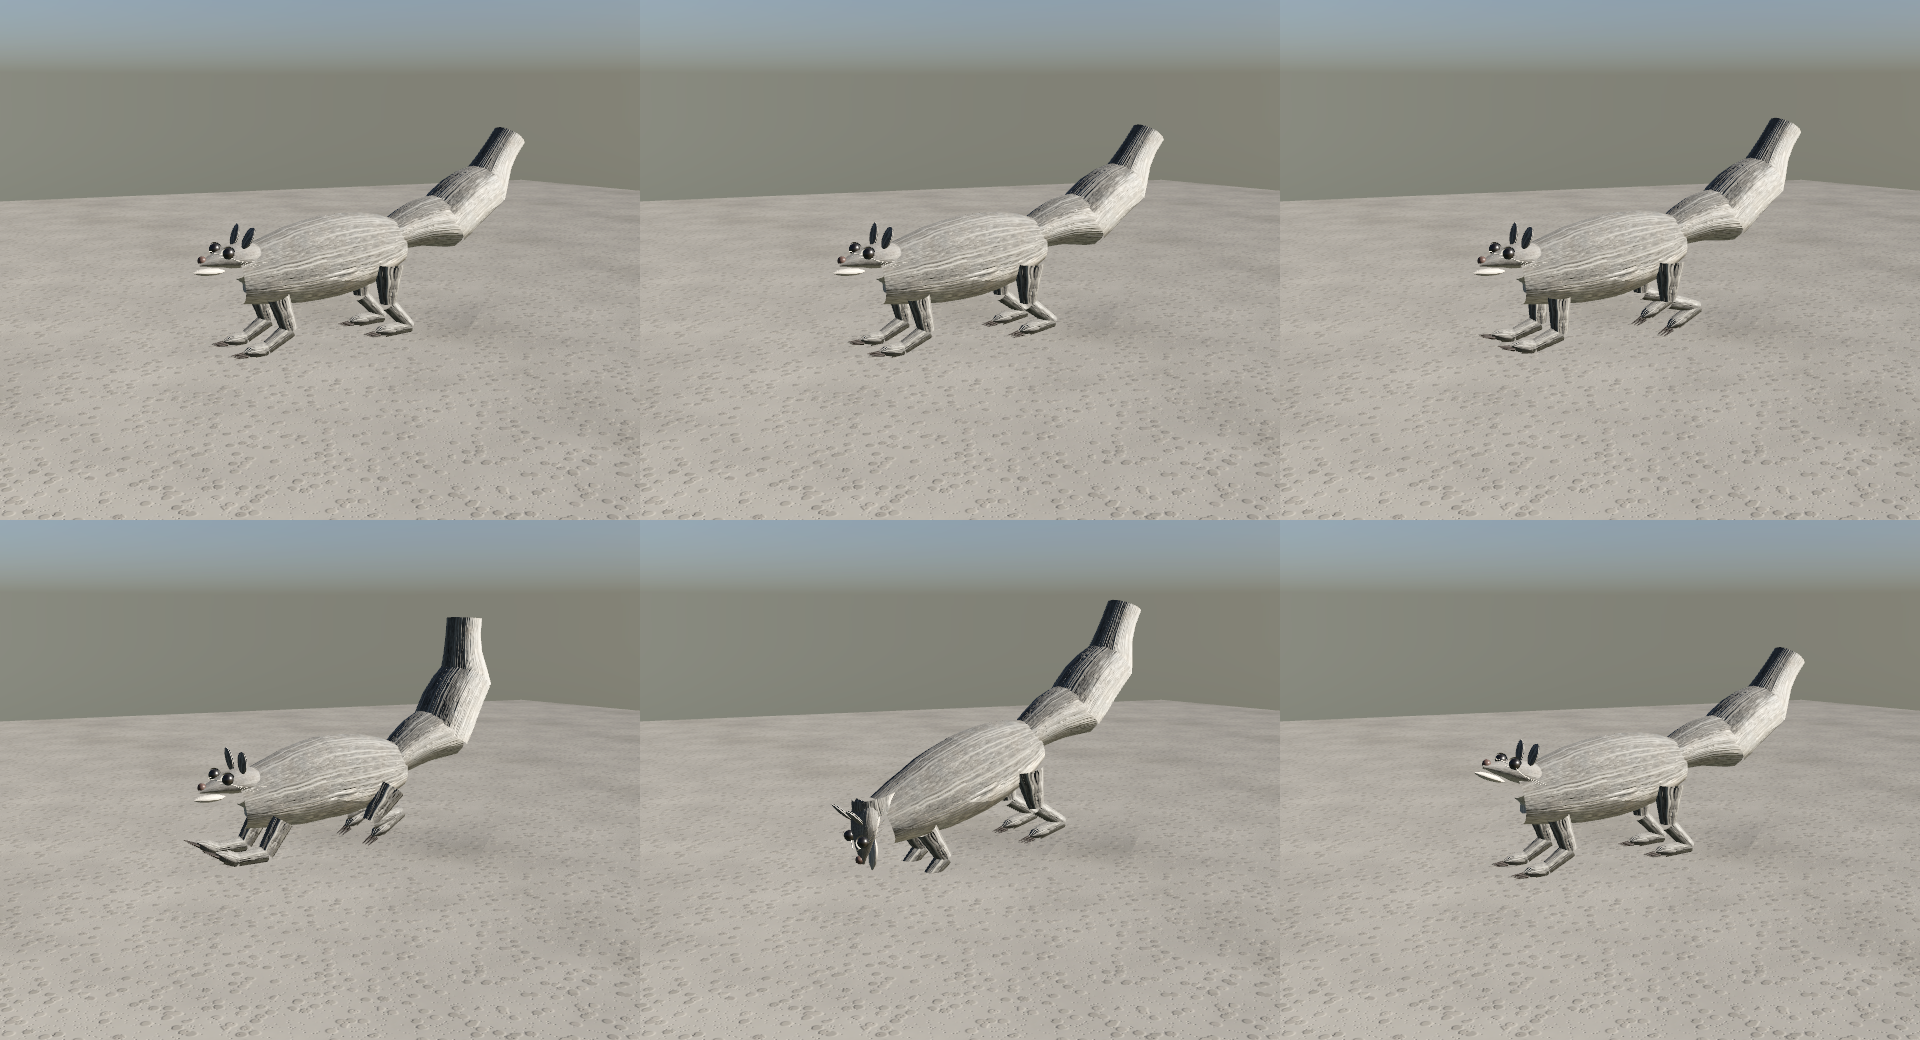
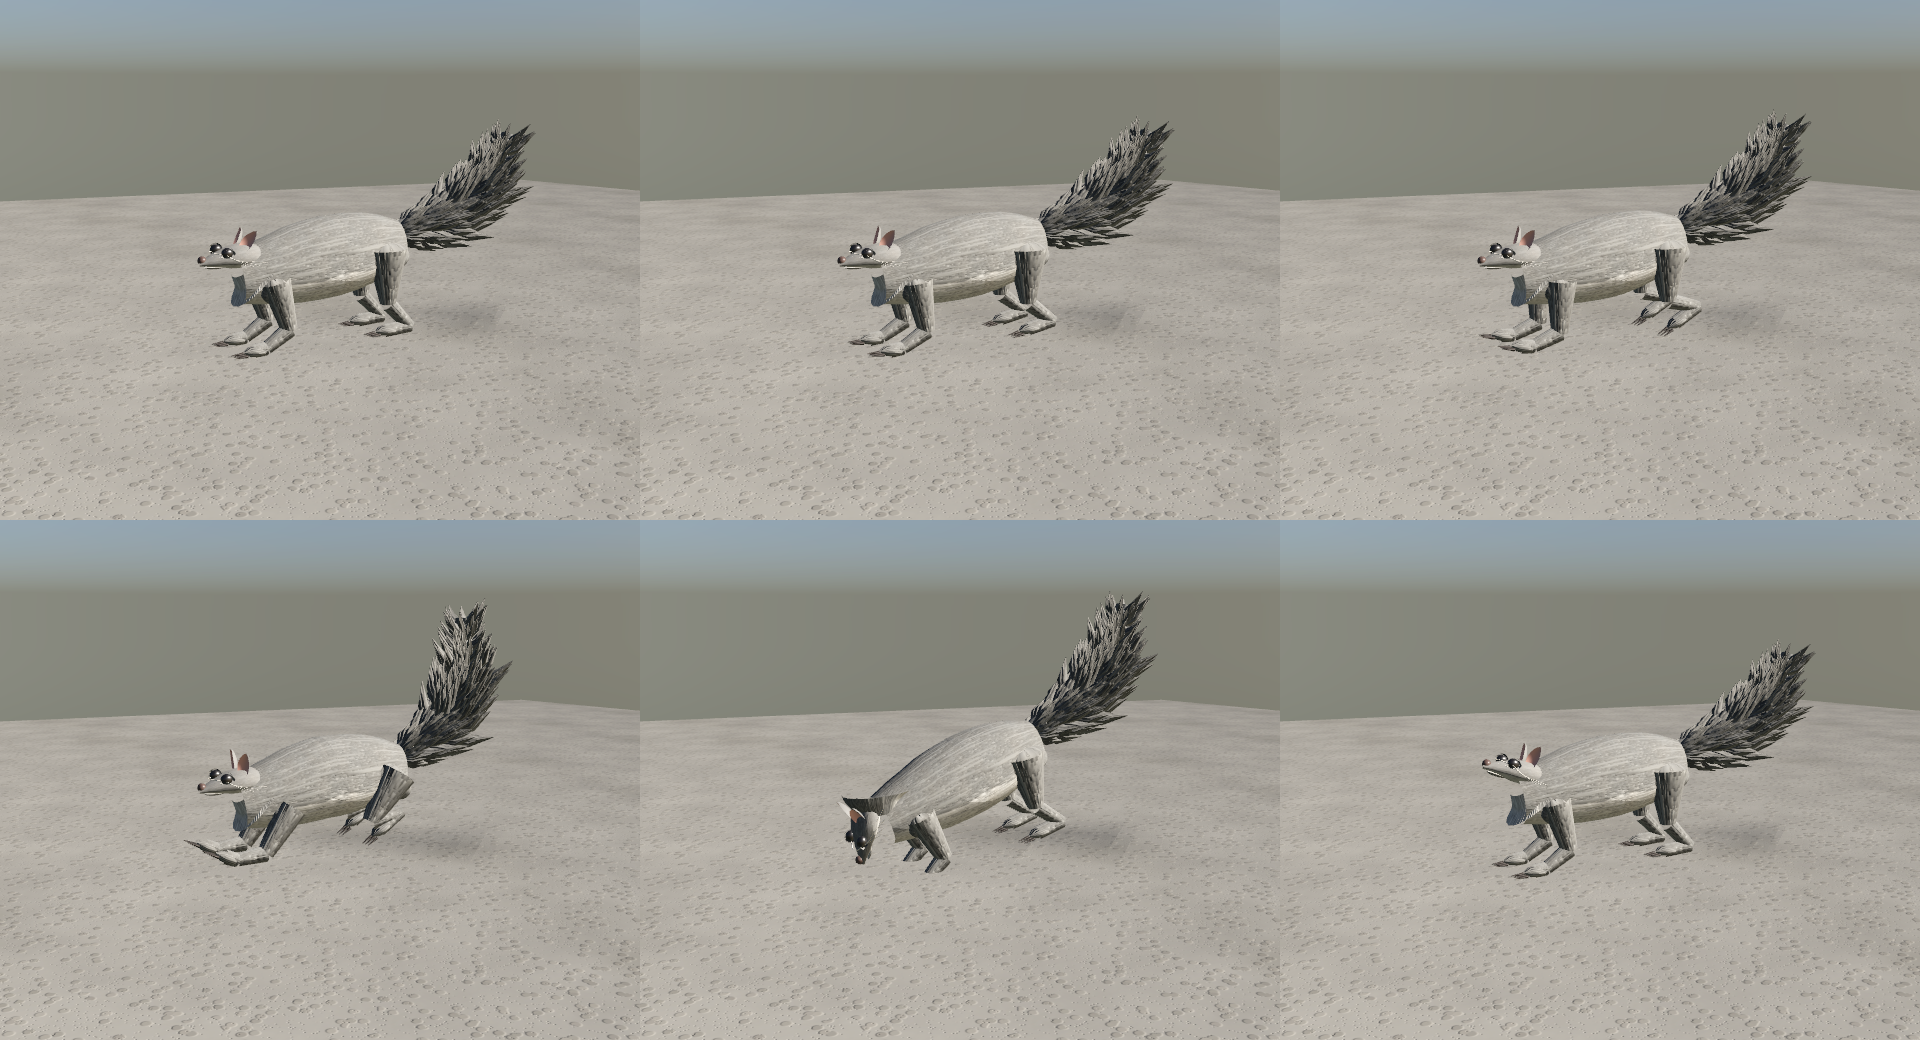
Pets: fur strands, seated eyes, cupped pinna ears, fur-card tails, blended neck

diff --git a/Sources/AnimalCore/Anatomy/GroundRigBuilder.swift b/Sources/AnimalCore/Anatomy/GroundRigBuilder.swift
@@ -111,6 +111,8 @@ public enum GroundRigBuilder {
         }
 
         let plan = QuadrupedPlan.plan(for: p)
+        // Small furred mammals (pets, squirrels): blended neck, seated eyes, cupped ears, fur-card tail.
+        let small = plan == nil && !a.hooves && !a.spines && a.bodyLength < 0.35
         declare(.spine, parent: nil, pivot: f.C, axis: GroundFrame.X)
         declare(.tailYaw, parent: .spine, pivot: f.rump, axis: GroundFrame.Y)
         let tl = a.tailLength
@@ -227,11 +229,11 @@ public enum GroundRigBuilder {
         let limbFur = a.darkLimbs ? f.mat(.head) : fur
         // Neck: sections along the spine of the neck with a shoulder blend at the base, a crest above and
         // a brisket or throat swell below.
-        let nBase = f.neckPivot - f.A * (0.1 * a.bodyLength) - f.U * (0.06 * a.bodyDepth)
+        let nBase = small ? f.C + f.A * (0.36 * a.bodyLength) + f.U * (0.02 * a.bodyDepth) : f.neckPivot - f.A * (0.1 * a.bodyLength) - f.U * (0.06 * a.bodyDepth)
         let neckPath = a.neckLength > 0 ? [nBase, lerp(f.neckPivot, neckEnd, 0.5) + V3(0, 0.02 * a.neckLength, 0), neckEnd] : [nBase, lerp(nBase, neckEnd, 0.5), neckEnd]
         let NN = 13
         let npts = Loft.resample(neckPath, count: NN)
-        let r0 = 0.5 * a.bodyWidth * a.neckThick, r1 = 0.5 * a.headWidth * 0.95
+        let r0 = small ? 0.5 * a.bodyWidth * bp(0.86) : 0.5 * a.bodyWidth * a.neckThick, r1 = 0.5 * a.headWidth * 0.95
         func neckSecs(_ i0: Int, _ i1: Int, grow: Float = 1, mane: Float = 0) -> [LoftSection] {
             (i0...i1).map { i in
                 let t = Float(i) / Float(NN - 1)
@@ -245,14 +247,15 @@ public enum GroundRigBuilder {
                 let crest = 1 + 0.07 * sin(.pi * min(1, t * 1.2))
                 let brisket = 1 + 0.32 * pow(max(0, 1 - t / 0.35), 1.5) + (a.neckLength > 0.2 ? 0.14 * sin(.pi * min(1, max(0, (t - 0.25) / 0.6))) : 0)
                 let bump = sin(.pi * min(1, max(0, (t - 0.04) / 0.9)))
-                var hv = w * a.neckDeep * brisket + mane * bump
-                let hd = w * a.neckDeep * crest
+                let deepK: Float = small ? lerp(a.bodyDepth / a.bodyWidth * 0.95, 1, pow(t, 0.8)) : 1
+                var hv = w * a.neckDeep * brisket * deepK + mane * bump
+                let hd = w * a.neckDeep * crest * deepK
                 let c = npts[i] - u * (0.35 * mane * bump)
                 hv = max(hv, 0.001)
                 return LoftSection(center: c, right: simd_normalize(simd_cross(fw, u)), up: u, halfWidth: w, halfDorsal: hd, halfVentral: hv, exponent: 2.1)
             }
         }
-        let iT = a.throatFrom < 1 ? max(2, min(NN - 3, Int(a.throatFrom * Float(NN - 1)))) : NN - 1
+        let iT = a.throatFrom < 1 && !small ? max(2, min(NN - 3, Int(a.throatFrom * Float(NN - 1)))) : NN - 1
         rig.add(Loft.build(neckSecs(0, iT), segments: 20, vRange: 0.9...1.0, material: limbFur), to: GroundJoint.neckPitch.name)
         if iT < NN - 1 {
             rig.add(Loft.build(neckSecs(iT, NN - 1), segments: 20, vRange: 0.9...1.0, material: f.mat(.throat)), to: GroundJoint.neckPitch.name)
@@ -291,8 +294,10 @@ public enum GroundRigBuilder {
         // Lower jaw.
         let jawK: Float = a.headShape == nil ? 1 : 1.5
         let shaped = a.headShape != nil
-        let jawLoft = Loft.ellipsoid(center: shaped ? gape + V3(0, 0, -0.14 * hl) : gape + V3(0.0, 0.0, -0.18 * hl * jawK), axis: V3(0, 0, -1), up: GroundFrame.Y,
-                                     radii: V3(0.2 * a.headWidth * (shaped ? 0.62 : 1), 0.07 * a.headHeight, (shaped ? 0.2 : 0.26 * jawK) * hl), rings: 6, segments: 10, material: f.mat(p.palette.muzzle != nil ? .muzzle : .head), uv: { u, v in V2(0.5 + 0.1 * cos(u * 2 * .pi), 0.8) })
+        let jawC = small ? V3(0, 0.1 * a.headHeight, 0.1 * hl) : V3(0, 0, 0)
+        let jawS: Float = small ? 0.7 : 1
+        let jawLoft = Loft.ellipsoid(center: jawC + (shaped ? gape + V3(0, 0, -0.14 * hl) : gape + V3(0.0, 0.0, -0.18 * hl * jawK)), axis: V3(0, 0, -1), up: GroundFrame.Y,
+                                     radii: V3(0.2 * a.headWidth * (shaped ? 0.62 : 1), 0.07 * a.headHeight, (shaped ? 0.2 : 0.26 * jawK) * hl) * jawS, rings: 6, segments: 10, material: f.mat(p.palette.muzzle != nil ? .muzzle : .head), uv: { u, v in V2((small ? 0.32 : 0.5) + 0.1 * cos(u * 2 * .pi), 0.8) })
         rig.add(jawLoft, to: GroundJoint.jaw.name)
         // Nose, eyes, lids.
         let nr = a.noseSize * a.headWidth
@@ -300,8 +305,18 @@ public enum GroundRigBuilder {
         rig.add(Prim.cubeSphere(subdivisions: 3, material: f.mat(.nose)) { disc ? V3($0.x * nr, $0.y * nr * 0.8, $0.z * nr * 0.4) : $0 * nr },
                 Xform(translation: noseTip + V3(0, 0, disc ? -0.002 : 0.004)), to: GroundJoint.headPitch.name)
         for s in Side.allCases {
-            let c = eyeAt(s)
-            if plan == nil { rig.add(Prim.cubeSphere(subdivisions: 3, material: f.mat(.eye)) { $0 * a.eyeRadius }, Xform(translation: c), to: GroundJoint.headPitch.name) }
+            var c = eyeAt(s)
+            if small {
+                // Seat the eye in a socket: sunk into the skull, flattened, ringed by a dark lid rim.
+                let R = a.eyeRadius
+                c -= V3(s.sign * R * 0.55, 0, 0)
+                let face = simd_quatf(angle: -s.sign * .pi / 2, axis: GroundFrame.Z)
+                var rim: [V2] = []
+                for k in 0...6 { let al = radians(58 + 40 * Float(k) / 6); rim.append(V2(R * 1.12 * sin(al), R * 1.12 * cos(al) * 0.92)) }
+                rig.add(Prim.lathe(rim, segments: 18, seamTile: 0.02, material: f.mat(.lid)), Xform(translation: c, rotation: face), to: GroundJoint.headPitch.name)
+                rig.add(Prim.cubeSphere(subdivisions: 3, material: f.mat(.eye)) { V3($0.x * R * 0.8, $0.y * R * 0.92, $0.z * R * 1.05) }, Xform(translation: c), to: GroundJoint.headPitch.name)
+            }
+            if plan == nil && !small { rig.add(Prim.cubeSphere(subdivisions: 3, material: f.mat(.eye)) { $0 * a.eyeRadius }, Xform(translation: c), to: GroundJoint.headPitch.name) }
             let face = simd_quatf(angle: -s.sign * .pi / 2, axis: GroundFrame.Z)
             var prof: [V2] = []
             let R = a.eyeRadius * 1.2
@@ -310,7 +325,17 @@ public enum GroundRigBuilder {
                     to: s == .left ? GroundJoint.lidL.name : GroundJoint.lidR.name)
         }
         // Ears: flattened shells, inner skin and outer fur.
-        for s in Side.allCases where plan == nil {
+        for s in Side.allCases where small {
+            let base = earBase(s)
+            let dir = simd_normalize(V3(s.sign * a.earTilt, 1, 0.12))
+            let fwd = V3(s.sign * 0.3, 0.05, -1)
+            let normal = simd_normalize(fwd - dir * simd_dot(fwd, dir))
+            let side = simd_normalize(simd_cross(normal, dir))
+            let part = s == .left ? GroundJoint.earL.name : GroundJoint.earR.name
+            for srf in QuadrupedBody.ear(base: base - dir * 0.004, dir: dir, side: side, normal: normal, len: a.earLength, width: a.earWidth,
+                                         outer: f.mat(.ear), inner: f.mat(.pinna)) { rig.add(srf, to: part) }
+        }
+        for s in Side.allCases where plan == nil && !small {
             let base = earBase(s)
             let dir = simd_normalize(V3(s.sign * (p.species == .easternCottontail ? 0.18 : a.earTilt), 1, p.species == .easternCottontail ? 0.25 : 0.1))
             let len = a.earLength
@@ -354,12 +379,31 @@ public enum GroundRigBuilder {
                 default: return tw * 0.5 * (1 - 0.5 * t)
                 }
             }
+            let fluffy = small && a.tailLength > 0.6 * a.bodyLength
+            let coreK: Float = fluffy ? 0.5 : 1
             let pm = lerp(p0, p1, 0.5) + V3(0, curl * tailSeg * 0.07, 0)
             let seg = Loft.along([p0 - (p1 - p0) * 0.1, pm, p1 + (p1 - p0) * 0.06], up: GroundFrame.Y, count: 5, segments: 14, vRange: t0...t1, exponent: 2, material: tailMaterial()) { t in
-                let r = wTail(lerp(t0, t1, t)); return V3(r, r * (p.species == .easternGraySquirrel ? 0.8 : 1), r * (p.species == .easternGraySquirrel ? 0.8 : 1))
+                let r = wTail(lerp(t0, t1, t)) * coreK; return V3(r, r * (p.species == .easternGraySquirrel ? 0.8 : 1), r * (p.species == .easternGraySquirrel ? 0.8 : 1))
             }
             let partName = [GroundJoint.tail0, .tail1, .tail2][i].name
             rig.add(seg, to: partName)
+            if fluffy {
+                // Volumetric brush: tapered fur cards fanning out from the tail bone, leaning toward the tip.
+                var rng = SplitMix(seed: 31 + UInt64(i))
+                let ax = simd_normalize(p1 - p0)
+                let rt = simd_normalize(simd_cross(ax, GroundFrame.X)), sd = GroundFrame.X
+                for _ in 0..<110 {
+                    let tt = rng.next01()
+                    let w = wTail(lerp(t0, t1, tt))
+                    let ang = rng.next01() * 2 * .pi
+                    let radial = sd * cos(ang) * 1.15 + rt * sin(ang) * 0.85
+                    let b = lerp(p0, p1, tt) + radial * (w * 0.3)
+                    let L = w * (0.8 + 0.5 * rng.next01())
+                    let d = simd_normalize(radial + ax * 0.9)
+                    let pts = [b, b + d * (0.5 * L) + radial * (0.08 * L), b + d * L + ax * (0.2 * L)]
+                    rig.add(Prim.tube(pts, radii: [w * 0.24, w * 0.18, 0.0004], sides: 4, seamTile: 0.02, material: p.species == .easternGraySquirrel ? fur : tailMaterial()), to: partName)
+                }
+            }
         }
         if p.species == .easternCottontail {
             // Pom-pom: replace segmented tail look with a ball.
@@ -371,7 +415,7 @@ public enum GroundRigBuilder {
         for l in GroundJoint.Leg.allCases where plan == nil {
             let c = chains[l]!
             let r = a.legRadius
-            let thighR = (l.isFore ? r * 1.4 : r * 2.0) * a.thighScale
+            let thighR = (l.isFore ? r * 1.4 : r * 2.0) * a.thighScale * (small ? 1.35 : 1)
             let kneeR: Float = a.digitigrade ? r * (l.isFore ? 1.3 : max(1.1, a.thighScale)) : r * 1.05
             let shankEnd: Float = a.digitigrade ? r * (l.isFore ? 0.85 : 1.0) : r * 0.8
             func leg(_ pts: [V3], _ radii: [Float], vr: ClosedRange<Float>) -> Surface {
@@ -379,18 +423,18 @@ public enum GroundRigBuilder {
                     let r = lerp(radii[0], radii[1], t); return V3(r, r, r)
                 }, uv: { u, v in V2(legU + 0.05 * cos(u * 2 * .pi), 0.3 + 0.3 * v) })
             }
-            rig.add(Loft.along([c.hip + V3(0, 0.004, 0), c.knee], up: GroundFrame.X, count: 6, segments: 12, vRange: 0...0.5, exponent: 2, material: fur, radius: { t in let r = lerp(thighR, kneeR, t); return V3(r, r, r) }, uv: { u, v in V2(legU + 0.05 * cos(u * 2 * .pi), 0.3 + 0.3 * v) }), to: GroundJoint.leg(l, .hip).name)
+            rig.add(Loft.along([c.hip + (small ? f.U * (0.22 * a.bodyDepth) : V3(0, 0.004, 0)), c.knee], up: GroundFrame.X, count: 6, segments: 12, vRange: 0...0.5, exponent: 2, material: fur, radius: { t in let r = lerp(thighR, kneeR, t); return V3(r, r, r) }, uv: { u, v in V2(legU + 0.05 * cos(u * 2 * .pi), 0.3 + 0.3 * v) }), to: GroundJoint.leg(l, .hip).name)
             rig.add(leg([c.knee, c.ankle], [kneeR, shankEnd], vr: 0.5...1), to: GroundJoint.leg(l, .knee).name)
             rig.add(leg([c.ankle, c.toe], [r * 0.85, r * 0.9], vr: 0.5...1), to: GroundJoint.leg(l, .ankle).name)
             let ankle = GroundJoint.leg(l, .ankle).name
-            if a.digitigrade || a.thighScale > 1.3 {
+            if a.digitigrade || a.thighScale > 1.3 || small {
                 // Shoulder and haunch muscle mass hanging from the hip joint.
                 let up = c.knee - c.hip, len = simd_length(up)
-                let mid = lerp(c.hip, c.knee, l.isFore ? 0.3 : 0.4)
+                let mid = small ? lerp(c.hip, c.knee, 0.1) + f.U * (0.16 * a.bodyDepth) - V3(l.side.sign * thighR * 0.45, 0, 0) : lerp(c.hip, c.knee, l.isFore ? 0.3 : 0.4)
                 let wx = thighR * (l.isFore ? 0.8 : 0.95), wz = thighR * (l.isFore ? 1.05 : 1.3)
                 // Texture scale follows the body: u spans the body circumference, v its length.
                 let circ = Float.pi * (a.bodyWidth + a.bodyDepth) * 0.5, span = 2 * len * 0.66 / a.bodyLength
-                rig.add(Loft.ellipsoid(center: mid + V3(l.side.sign * 0.004, 0, 0), axis: up, up: GroundFrame.X, radii: V3(wz, wx, len * 0.66), rings: 9, segments: 16, material: fur,
+                rig.add(Loft.ellipsoid(center: mid + V3(l.side.sign * 0.004, 0, 0), axis: up, up: GroundFrame.X, radii: small ? V3(wz * 1.05, wx * 0.85, len * 0.46) : V3(wz, wx, len * 0.66), rings: 9, segments: 16, material: fur,
                                        uv: { u, v in V2(0.16 + 0.5 * (wz + wx) * cos(u * 2 * .pi) / circ, 0.25 + span * (v - 0.5)) }), to: GroundJoint.leg(l, .hip).name)
             }
             if a.hooves {

diff --git a/Sources/RealMaterials/Shaders/FaunaShaders.swift b/Sources/RealMaterials/Shaders/FaunaShaders.swift
@@ -266,7 +266,8 @@ FaStrand fa_strand(float t, float v, int nx, float lenV, uint sd, float wmax, fl
             float sl = loc / Lk;
             if (sl <= 0.0 || sl >= 1.0) continue;
             float wave = wavy * sin(yy * 2.3 + g2 * 6.28) * (0.4 + 0.6 * sl) * ((fp < 0.05 || fp > hp - 0.05) ? 0.0 : 1.0);
-            float cu = fp + jit + wave;
+            float rj = (g3 - 0.5) * 0.9 * ((fp < 0.05 || fp > hp - 0.05) ? 0.0 : 1.0);   // per-row offset breaks column alignment
+            float cu = fp + jit + rj + wave;
             float cx = lo ? -cu : (hi ? 2.0 * hp - cu : cu);
             float hw = wmax * pow(saturate(sl * 4.0), 0.6) * (1.0 - 0.25 * sl);
             float a = (x - cx) / max(hw, 1e-3);
@@ -291,18 +292,18 @@ S furCoat(float2 uv, constant RFParams &P) {
     // Coat-wide colour variation: broad light/dark patches plus a warm/cool drift.
     float patch = fbm(uv, int2(5, 7), 3, P.seed + 111u);
     float drift = fbm(uv, int2(9, 13), 2, P.seed + 211u);
-    float3 tint = float3(1.0 + 0.10 * drift, 1.0, 1.0 - 0.10 * drift) * (1.0 + 0.30 * patch);
+    float3 tint = float3(1.0 + 0.06 * drift, 1.0, 1.0 - 0.06 * drift) * (1.0 + 0.14 * patch);
     // Low-frequency domain warp breaks strand-row alignment (tile banding). Mirror safe: t stays >= 0.
     float2 wp = float2(fbm(uv, int2(6, 9), 2, P.seed + 301u), fbm(uv, int2(7, 5), 2, P.seed + 303u));
-    float tw = fabs(t + 0.02 * wp.x), vw = uv.y + 0.03 * wp.y;
+    float tw = fabs(t + 0.006 * wp.x), vw = uv.y + 0.008 * wp.y;
     // Layers from the surface down: sparse long guard hairs, then four dense fine coat layers.
     const float scl[5] = { 0.42, 1.0, 1.17, 0.88, 1.31 };
     float3 outC = float3(0.0); float hgt = 0.1, ao = 0.3; bool got = false;
     for (int l = 0; l < 5; l++) {
         bool gl = (l == 0);
         int nx = max(8, int(round(nx0 * scl[l] * (gl ? 1.0 : 1.35))));
-        float lenV = (gl ? (12.0 + 14.0 * fuzz) : (5.5 + 8.0 * fuzz)) / float(nx);
-        FaStrand st = fa_strand(tw, vw, nx, lenV, P.seed + uint(l) * 977u, gl ? 0.36 : 0.40, gl ? 0.18 : 0.26);
+        float lenV = (gl ? (5.0 + 5.0 * fuzz) : (2.6 + 2.6 * fuzz)) / float(nx);   // short strands: 2-4x width, no grain streaks
+        FaStrand st = fa_strand(tw, vw, nx, lenV, P.seed + uint(l) * 977u, gl ? 0.36 : 0.56, gl ? 0.18 : 0.30);
         if (!st.hit) continue;
         if (gl && st.h1 < 0.55) continue;                                  // guard hairs are a sparse subset
         got = true;
@@ -315,8 +316,11 @@ S furCoat(float2 uv, constant RFParams &P) {
         float guard = step(0.72 - 0.35 * P.f.z, st.h1);
         float3 tip = under ? baseC * 1.05 : mix(baseC * 0.82, P.colorC.rgb, guard);
         float sl = st.sl;
-        float3 c = mix(tip, band, smoothstep(0.14, 0.24, sl));
-        c = mix(c, uc, smoothstep(0.50, 0.70, sl));
+        // Root dark, mid band, light tip: smooth gradient along the strand (sl 0 tip .. 1 root).
+        float3 c = mix(tip * 1.12, band, smoothstep(0.05, 0.40, sl));
+        c = mix(c, uc * 0.72, smoothstep(0.45, 0.95, sl));
+        // Per-strand fine noise across and along the hair.
+        c *= 0.9 + 0.2 * fract(st.h3 * 37.0 + st.across * 3.1) * (0.6 + 0.4 * sl);
         // Pale, translucent-looking tip.
         c += baseC * 0.25 * (1.0 - smoothstep(0.0, 0.10, sl)) * (0.4 + 0.6 * st.h2);
         if (gl) {
@@ -345,11 +349,16 @@ S furCoat(float2 uv, constant RFParams &P) {
     if (!got) {
         bool under = (t + zn) > P.f.y;
         float3 baseC = (under ? P.colorB.rgb : P.colorA.rgb) * tint;
-        outC = baseC * 0.55 * (0.8 + 0.4 * fbm(uv, int2(40, 40), 2, P.seed + 31u));
+        outC = baseC * 0.72 * (0.85 + 0.3 * fbm(uv, int2(120, 120), 2, P.seed + 31u));
         hgt = 0.03; ao = 0.08;
     }
-    float soft = fbm(uv, int2(48, 48), 2, P.seed + 71u);
+    float soft = fbm(uv, int2(160, 160), 2, P.seed + 71u);
     outC *= 1.0 + (0.06 + 0.10 * fuzz) * soft;
+    // Soften strand contrast toward the local coat colour so the coat reads as fur, not grain.
+    bool underM = (t + zn) > P.f.y;
+    float3 coat = (underM ? P.colorB.rgb : P.colorA.rgb) * tint * (0.92 + 0.12 * soft);
+    outC = mix(outC, coat, 0.45);
+    if (!all(isfinite(outC))) outC = coat;
     s.albedo = outC;
     s.height = hgt;
     s.ao = clamp(ao, 0.0, 1.0);

diff --git a/Sources/AnimalCore/Materials/FaunaMaterials.swift b/Sources/AnimalCore/Materials/FaunaMaterials.swift
@@ -132,7 +132,7 @@ public enum FaunaMaterials {
     // MARK: ground animals
 
     public enum GroundRegion: String, CaseIterable, Sendable {
-        case body, head, tail, ear, nose, eye, claw, whisker, quill, antler, hoof, muzzle, throat, rump, mane, bristle
+        case body, head, tail, ear, nose, eye, claw, whisker, quill, antler, hoof, muzzle, throat, rump, mane, bristle, pinna, lid
     }
 
     public static func key(_ id: String, _ r: GroundRegion) -> MaterialKey { "fauna.\(id).\(r.rawValue)" }
@@ -153,21 +153,31 @@ public enum FaunaMaterials {
             make(.body, .furCoat) {
                 $0.colorA = linear(c.back); $0.colorB = linear(c.belly); $0.colorC = linear(c.accent)
                 $0.knobs = V4(c.strands, c.flankLine, c.pattern, c.fuzz)
-                $0.tileSize = 0; $0.resolution = 1024; $0.normalStrength = 2.4; $0.roughness = 0.92
+                $0.tileSize = 0; $0.resolution = 2048; $0.normalStrength = 1.1; $0.roughness = 0.92
             },
             make(.head, .furCoat) {
                 $0.colorA = linear(c.face); $0.colorB = linear(c.belly); $0.colorC = linear(c.accent)
                 $0.knobs = V4(c.strands * 1.3, c.flankLine + 0.04, c.pattern * 0.8, c.fuzz * 0.67)
-                $0.tileSize = 0; $0.resolution = 512; $0.normalStrength = 2; $0.roughness = 0.9
+                $0.tileSize = 0; $0.resolution = 1024; $0.normalStrength = 1.0; $0.roughness = 0.9
             },
             make(.tail, .furCoat) {
                 $0.colorA = linear(c.tail); $0.colorB = linear(c.tailTip); $0.colorC = linear(c.accent)
                 $0.knobs = V4(c.strands, 0.32, 0.25, 0.9)
-                $0.tileSize = 0; $0.resolution = 512; $0.normalStrength = 2.6; $0.roughness = 0.92
+                $0.tileSize = 0; $0.resolution = 1024; $0.normalStrength = 1.2; $0.roughness = 0.92
             },
             make(.ear, .plastic) {
                 $0.colorA = linear(c.ear); $0.knobs = V4(0.6, 0.4, 0.6, 0)
                 $0.tileSize = 0.03; $0.resolution = 256; $0.normalStrength = 0.5; $0.roughness = 0.7
+            },
+            make(.pinna, .plastic) {
+                // Inner ear skin: thin, pink, translucent-looking.
+                $0.colorA = linear(0xE9AFA0); $0.knobs = V4(0.5, 0.35, 0.5, 0)
+                $0.tileSize = 0.02; $0.resolution = 256; $0.normalStrength = 0.3; $0.roughness = 0.62; $0.specular = 0.3
+            },
+            make(.lid, .plastic) {
+                // Dark rim skin around the eye.
+                $0.colorA = linear(0x1E1714); $0.knobs = V4(0.3, 0.3, 0.3, 0)
+                $0.tileSize = 0.01; $0.resolution = 128; $0.normalStrength = 0.2; $0.roughness = 0.5
             },
             make(.nose, .plastic) {
                 $0.colorA = linear(c.nose); $0.knobs = V4(0.4, 0.3, 0.3, 0)

diff --git a/notes/visual-log.md b/notes/visual-log.md
@@ -27,3 +27,20 @@ Shader (RealMaterials furCoat) is out of scope; changes are geometry, material k
 - whitetail-deer-buck: same body, rack unchanged.
 - wild-turkey it1-2: iridescence 0.9 bronze, broader tail (0.3), beard 0.26, crown 0x8EA6D6. Remaining: tail not fanned at rest.
 - rocky-mountain-elk-bull it1-2: 6x6 rack (5 tines plus beam tip), shorter tines tilted up. GroundFactory.puppet default variant for elk is .antlered.
+
+## Pets realism pass (squirrel, fennec, chipmunk)
+
+Iter 1. Issues: wood-grain fur, white mouth disc, grey fennec ears, plank tail, bulging eyes, neck seam.
+Fixes: furCoat strands shortened (lenV 12-26/nx to 2.6-10/nx), warp cut, root-dark to tip-light gradient,
+normalStrength 2.4 to 1.1, 2048 body atlas; jaw tucked into skull; cupped ear sheets with `pinna` (pink)
+inner and cream outer; 110 fur cards per tail segment over a half-width core; eyes sunk 0.55R with dark
+`lid` rim; neck starts inside the chest at body width (small mammals).
+Iter 2. Issues: strand columns aligned (grain), dark gap fallback, grey throat collar, haunch bulbs.
+Fixes: per-row strand x jitter, wider strands, lighter fallback; throat coat off for small mammals;
+haunch moved up and inward.
+Iter 3. Issues: squirrel head black (NaN in furCoat at head knobs), strand contrast high.
+Fixes: isfinite guard; strand colour blended 45% toward local coat colour.
+Iter 4. Issues: haunches still read as separate blobs, squirrel tail cards dark.
+Fixes: haunch at 0.1 along thigh, inset by 0.45 thigh radius; squirrel cards on body coat.
+Open: squirrel tail cards still shade dark (thin tube normals); legs remain tubes below the knee;
+head and body still separate parts per joint (no single skinned loft).
